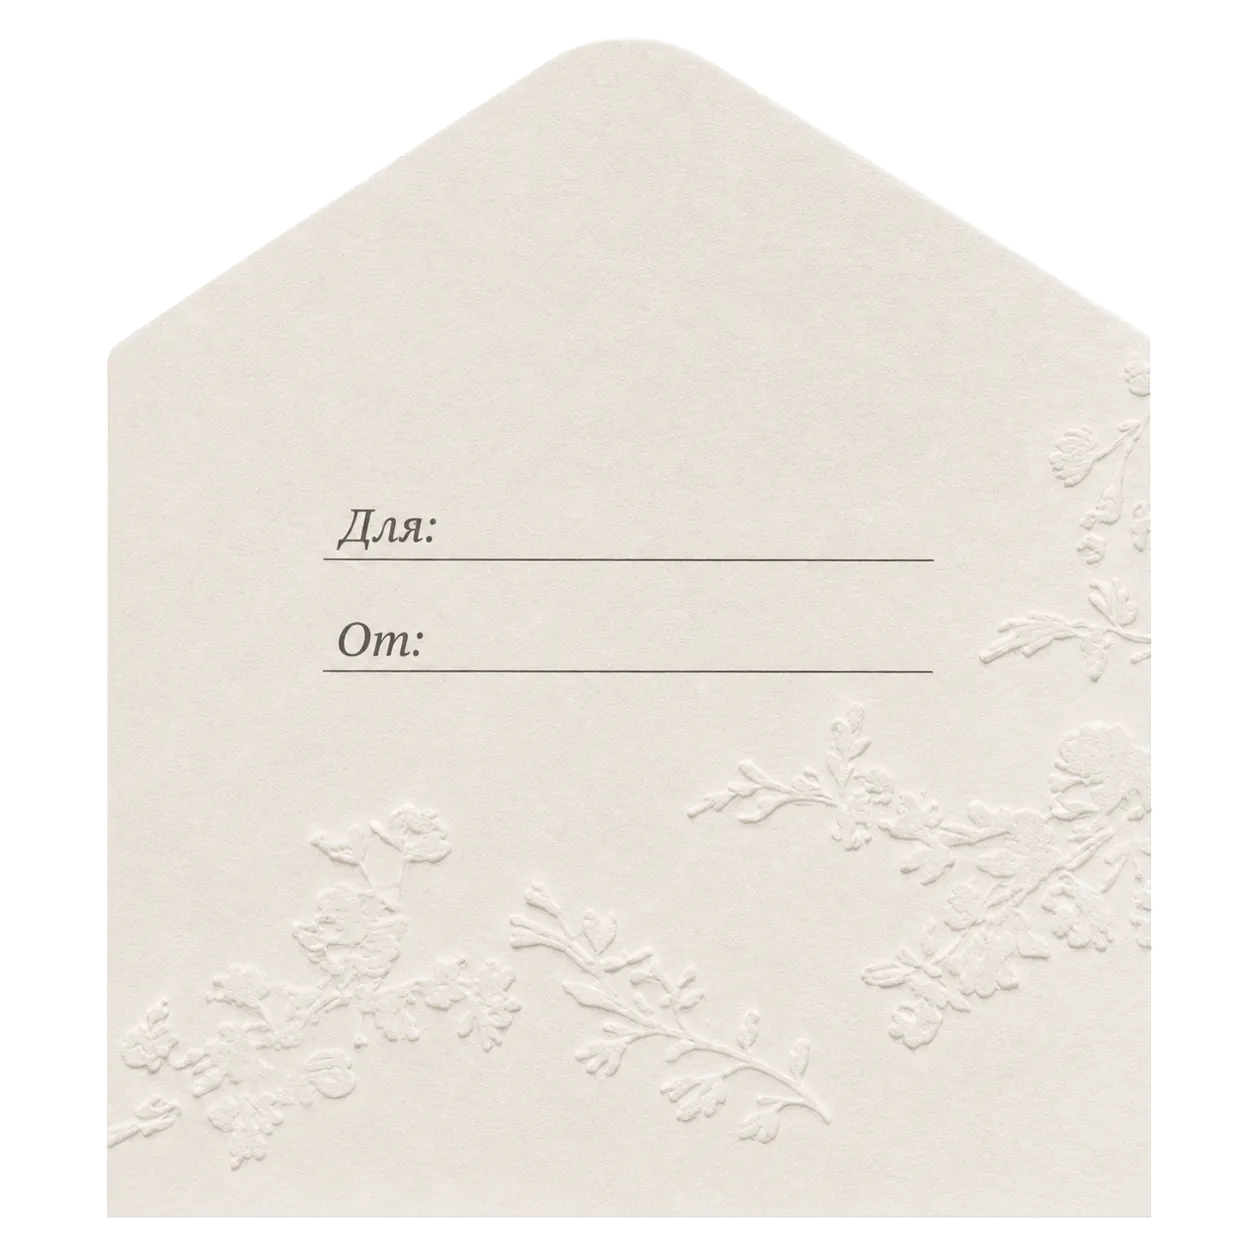
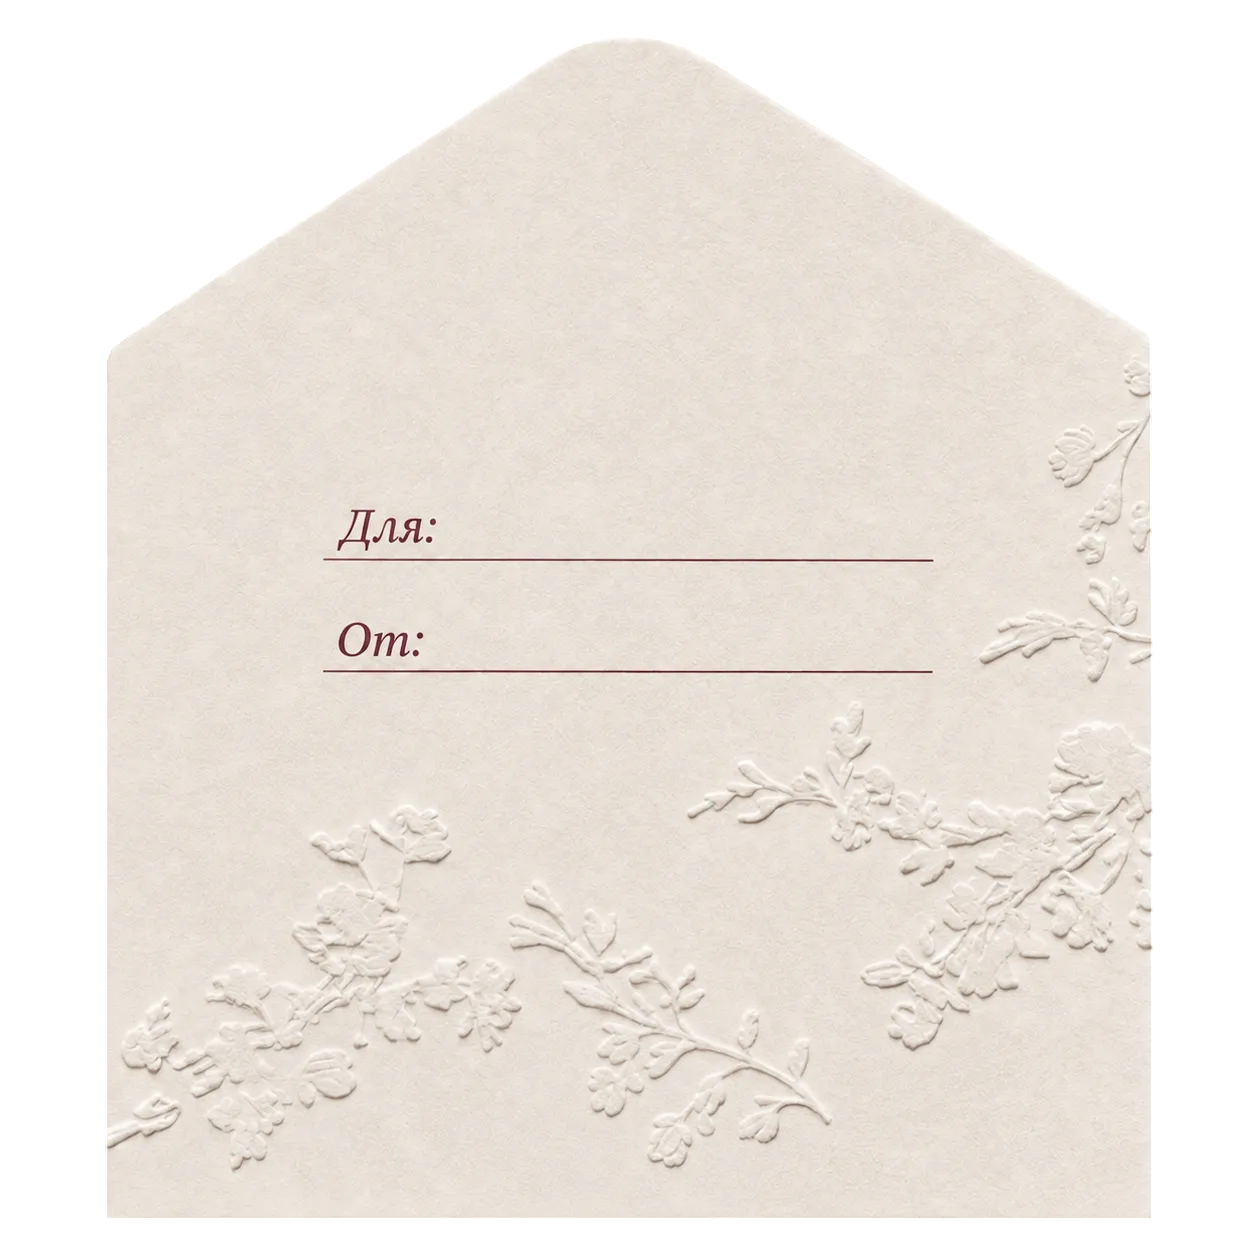
fix: remove white border and shadow from layout, unify bg color

diff --git a/src/features/invitation/components/landing-page.jsx b/src/features/invitation/components/landing-page.jsx
@@ -2,136 +2,161 @@ import { useState } from "react";
 import { AnimatePresence, motion } from "framer-motion";
 import MainContent from "@/features/invitation/components/main-content";
 
-const overlayStyle = {
-  position: "fixed",
-  top: 0,
-  left: "50%",
-  transform: "translateX(-50%)",
-  width: "min(100%, 390px)",
-  height: "100vh",
-  zIndex: 100,
-  overflow: "hidden",
-  background: "var(--bg)",
-};
-
-const bottomOrnamentStyle = {
-  position: "absolute",
-  left: "50%",
-  width: "125%",
-  height: "auto",
-  maxWidth: "none",
-  transform: "translateX(-50%)",
-  bottom: "-4%",
-  zIndex: 2,
-  filter: "drop-shadow(0px -4px 12px rgba(0,0,0,0.12))",
-};
-
-const topOrnamentStyle = {
-  position: "absolute",
-  left: "50%",
-  width: "103%",
-  height: "auto",
-  maxWidth: "none",
-  transform: "translateX(-50%)",
-  top: "-4%",
-  zIndex: 3,
-  filter: "drop-shadow(0px 6px 12px rgba(0,0,0,0.12))",
-};
-
-const sideOrnamentBaseStyle = {
-  position: "absolute",
-  width: "64%",
-  height: "auto",
-  maxWidth: "none",
-  top: "50%",
-  transform: "translateY(-50%)",
-  zIndex: 1,
-  filter: "drop-shadow(0px 6px 12px rgba(0,0,0,0.1))",
+const smoothTransition = {
+  duration: 2.8,
+  ease: [0.16, 1, 0.3, 1],
 };
 
 export default function LandingPage() {
   const [opened, setOpened] = useState(false);
 
   return (
-    <>
-      <AnimatePresence>
+    <div
+      style={{
+        background: "var(--bg)",
+        minHeight: "100vh",
+        width: "100%",
+      }}
+    >
+      <AnimatePresence initial={false} mode="wait">
         {!opened && (
           <motion.div
             initial={{ opacity: 1 }}
-            exit={{ opacity: 0 }}
-            transition={{ duration: 0.45, delay: 0.7 }}
-            style={overlayStyle}
+            animate={{ opacity: 1 }}
+            exit={{
+              opacity: 0,
+              transition: { delay: 1.6, duration: 0.5, ease: "easeOut" },
+            }}
+            style={{
+              position: "fixed",
+              top: 0,
+              left: "50%",
+              transform: "translateX(-50%)",
+              width: "min(100%, 390px)",
+              height: "100vh",
+              zIndex: 100,
+              overflow: "hidden",
+              background: "var(--bg)",
+            }}
           >
+            {/* BOTTOM */}
             <motion.img
               src="/button.webp"
-              alt="bottom ornament"
-              initial={{ opacity: 0 }}
-              animate={{ opacity: 1 }}
-              exit={{ opacity: 0, y: 260 }}
-              transition={{ duration: 0.75, ease: "easeInOut" }}
-              style={bottomOrnamentStyle}
-            />
-
-            <motion.img
-              src="/top.webp"
-              alt="top ornament"
-              initial={{ opacity: 0 }}
-              animate={{ opacity: 1 }}
-              exit={{ opacity: 0, y: -260 }}
-              transition={{ duration: 0.75, ease: "easeInOut" }}
-              style={topOrnamentStyle}
-            />
-
-            <motion.img
-              src="/left.webp"
-              alt="left ornament"
-              initial={{ opacity: 0 }}
-              animate={{ opacity: 1 }}
-              exit={{ opacity: 0, x: -260 }}
-              transition={{ duration: 0.75, ease: "easeInOut" }}
-              style={{
-                ...sideOrnamentBaseStyle,
-                left: "-18%",
-              }}
-            />
-
-            <motion.img
-              src="/right.webp"
-              alt="right ornament"
-              initial={{ opacity: 0 }}
-              animate={{ opacity: 1 }}
-              exit={{ opacity: 0, x: 260 }}
-              transition={{ duration: 0.75, ease: "easeInOut" }}
-              style={{
-                ...sideOrnamentBaseStyle,
-                right: "-18%",
-              }}
-            />
-
-            <motion.button
-              type="button"
-              onClick={() => setOpened(true)}
-              initial={{ opacity: 0, scale: 0.94 }}
-              animate={{ opacity: 1, scale: 1 }}
-              transition={{ delay: 0.75, duration: 0.35 }}
-              whileTap={{ scale: 0.97 }}
-              whileHover={{ scale: 1.03 }}
+              alt=""
+              loading="eager"
+              decoding="async"
+              initial={{ opacity: 0, x: "-50%", y: 0 }}
+              animate={{ opacity: 1, x: "-50%", y: 0 }}
+              exit={{ opacity: 0, x: "-50%", y: 380 }}
+              transition={smoothTransition}
               style={{
                 position: "absolute",
                 left: "50%",
-                bottom: "9%",
-                transform: "translateX(-50%)",
+                width: "125%",
+                height: "auto",
+                maxWidth: "none",
+                bottom: "-4%",
+                zIndex: 2,
+                willChange: "transform, opacity",
+              }}
+            />
+
+            {/* TOP */}
+            <motion.img
+              src="/top.webp"
+              alt=""
+              loading="eager"
+              decoding="async"
+              initial={{ opacity: 0, x: "-50%", y: 0 }}
+              animate={{ opacity: 1, x: "-50%", y: 0 }}
+              exit={{ opacity: 0, x: "-50%", y: -380 }}
+              transition={smoothTransition}
+              style={{
+                position: "absolute",
+                left: "50%",
+                width: "103%",
+                height: "auto",
+                maxWidth: "none",
+                top: "-4%",
+                zIndex: 3,
+                willChange: "transform, opacity",
+              }}
+            />
+
+            {/* LEFT */}
+<motion.img
+  src="/left.webp"
+  alt=""
+  loading="eager"
+  decoding="async"
+  initial={{ opacity: 0, x: 0, y: "-50%" }}
+  animate={{ opacity: 1, x: 0, y: "-50%" }}
+  exit={{ opacity: 0, x: -480, y: "-50%" }}
+  transition={smoothTransition}
+  style={{
+    position: "absolute",
+    width: "60%",
+    height: "auto",
+    maxWidth: "none",
+    top: "50%",
+    left: "-8%", // вынесен за край
+    zIndex: 1,
+    willChange: "transform, opacity",
+  }}
+/>
+            {/* RIGHT */}
+            <motion.img
+              src="/right.webp"
+              alt=""
+              loading="eager"
+              decoding="async"
+              initial={{ opacity: 0, x: 0, y: "-50%" }}
+              animate={{ opacity: 1, x: 0, y: "-50%" }}
+              exit={{ opacity: 0, x: 380, y: "-50%" }}
+              transition={smoothTransition}
+              style={{
+                position: "absolute",
+                width: "52%",
+                height: "auto",
+                maxWidth: "none",
+                top: "50%",
+                right: 0,
+                zIndex: 1,
+                willChange: "transform, opacity",
+              }}
+            />
+
+            {/* КНОПКА */}
+            <motion.button
+              type="button"
+              onClick={() => setOpened(true)}
+              initial={{ opacity: 0, scale: 0.9, x: "-50%" }}
+              animate={{ opacity: 1, scale: 1, x: "-50%" }}
+              exit={{
+                opacity: 0,
+                scale: 0.9,
+                x: "-50%",
+                transition: { delay: 0, duration: 0.25 },
+              }}
+              transition={{ delay: 0.5, duration: 0.5 }}
+              whileTap={{ scale: 0.95 }}
+              whileHover={{ scale: 1.05 }}
+              style={{
+                position: "absolute",
+                left: "50%",
+                bottom: "12%",
                 border: "1px solid var(--antique-dark)",
                 color: "var(--antique-dark)",
-                background: "var(--white)",
+                background: "white",
                 borderRadius: 999,
-                padding: "14px 30px",
-                fontSize: 11,
+                padding: "14px 32px",
+                fontSize: 12,
                 letterSpacing: "0.2em",
                 textTransform: "uppercase",
                 cursor: "pointer",
-                pointerEvents: "auto",
                 zIndex: 120,
+                willChange: "transform, opacity",
+                touchAction: "manipulation",
               }}
             >
               открыть
@@ -140,15 +165,24 @@ export default function LandingPage() {
         )}
       </AnimatePresence>
 
-      {opened && (
-        <motion.div
-          initial={{ opacity: 0 }}
-          animate={{ opacity: 1 }}
-          transition={{ duration: 0.6 }}
-        >
-          <MainContent />
-        </motion.div>
-      )}
-    </>
+      <AnimatePresence>
+        {opened && (
+          <motion.div
+            key="main-content"
+            initial={{ opacity: 0 }}
+            animate={{ opacity: 1 }}
+            transition={{ duration: 0.9, delay: 0.3 }}
+            style={{
+              maxWidth: 390,
+              margin: "0 auto",
+              background: "var(--bg)",
+              minHeight: "100vh",
+            }}
+          >
+            <MainContent />
+          </motion.div>
+        )}
+      </AnimatePresence>
+    </div>
   );
 }

diff --git a/src/components/layout/layout.jsx b/src/components/layout/layout.jsx
@@ -1,26 +1,8 @@
-import { useState, useEffect } from "react";
-import { motion, AnimatePresence } from "framer-motion";
-import { Music, PauseCircle, PlayCircle } from "lucide-react";
-import { useConfig } from "@/features/invitation/hooks/use-config";
-import BottomBar from "@/components/layout/bottom-bar";
-
-/**
- * Layout component that wraps the main invitation content.
- * Handles music playback controls and navigation.
- *
- * @param {Object} props
- * @param {React.ReactNode} props.children - Child components to render
- * @param {Object} props.audioControls - Audio controls from useAudio hook
- * @param {boolean} props.audioControls.isPlaying - Whether audio is playing
- * @param {Function} props.audioControls.toggle - Toggle audio play/pause
- */
 const Layout = ({ children, audioControls }) => {
   const config = useConfig();
   const [showToast, setShowToast] = useState(false);
-
   const { isPlaying, toggle } = audioControls || {};
 
-  // Show toast when audio starts playing
   useEffect(() => {
     if (isPlaying) {
       setShowToast(true);
@@ -35,14 +17,14 @@ const Layout = ({ children, audioControls }) => {
   }, [isPlaying, config.audio?.toastDuration]);
 
   return (
-    <div className="relative min-h-screen w-full bg-gradient-to-br from-gray-50 to-gray-100 flex items-center justify-center">
+    <div className="relative min-h-screen w-full flex items-center justify-center" style={{ background: "var(--bg)" }}>
       <motion.div
-        className="mx-auto w-full max-w-[430px] min-h-screen bg-white relative overflow-hidden border border-gray-200 shadow-lg"
+        className="mx-auto w-full max-w-[430px] min-h-screen relative overflow-hidden"
+        style={{ background: "var(--bg)" }}
         initial={{ opacity: 0 }}
         animate={{ opacity: 1 }}
         transition={{ duration: 0.5 }}
       >
-        {/* Music Control Button with Status Indicator */}
         {toggle && (
           <motion.button
             initial={{ scale: 0 }}
@@ -66,7 +48,6 @@ const Layout = ({ children, audioControls }) => {
         <main className="relative h-full w-full pb-[100px]">{children}</main>
         <BottomBar />
 
-        {/* Music Info Toast */}
         <AnimatePresence>
           {showToast && (
             <motion.div

diff --git a/src/index.css b/src/index.css
@@ -6,7 +6,7 @@
 
 :root {
   --white: #ffffff;
-  --bg: #ffffff;
+  --bg: #faf9f6;
   --blush: #f0c4cb;
   --antique: #c87d87;
   --antique-dark: #8b4f58;
@@ -31,7 +31,7 @@ html {
 }
 
 body {
-  background: #f5ede8;
+  background: #faf9f6;
   display: flex;
   justify-content: center;
   min-height: 100vh;
